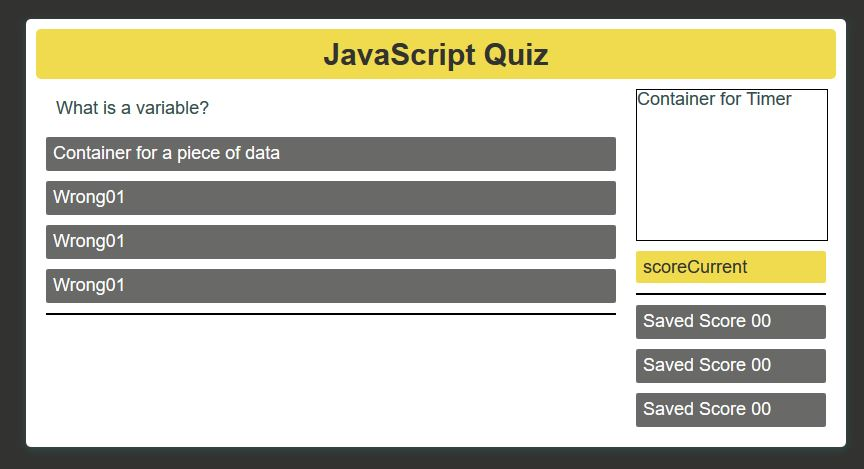
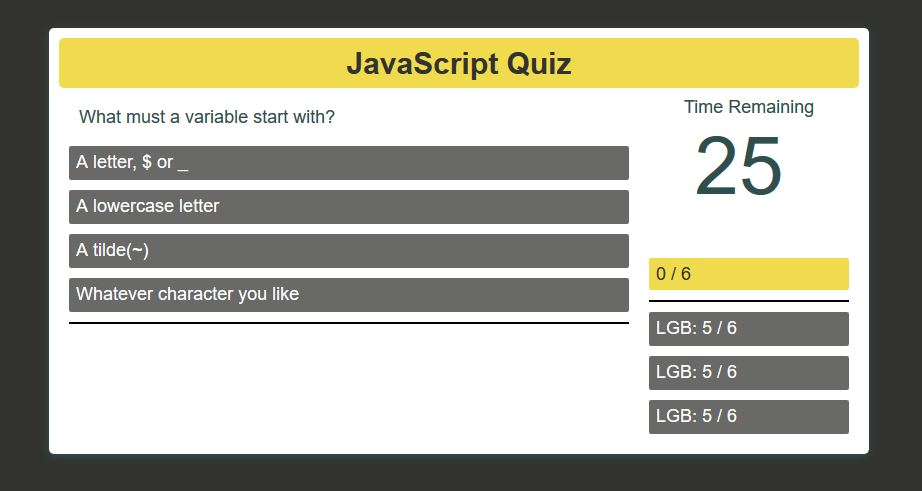
function with timer

Changed region(s): [[0.0312, 0.0299, 1.0, 0.9552], [0.75, 0.2687, 0.8438, 0.4179]]

diff --git a/assets/script.js b/assets/script.js
@@ -23,14 +23,15 @@ var lineBreak01 = $("<div>").addClass("lineBreak");
 var sideBox = $("<div>").addClass("sideBox");
 var timeBox = $("<div>").addClass("timeBox");
 var timer = $("<div>").addClass("timer"); 
+var timerVal;
 var scoreBox = $("<div>").addClass("scoreBox");
 var scoreCurrent = $("<div>").addClass("scoreCurrent");
 var scoreCurrentVal = "scoreCurrent";
 var scoreSaved00 = $("<div>").addClass("scoreSaved");
 var scoreSavedVal00 = "Saved Score 00";
-var scoreSaved01 = $("<div>").addClass("scoreSaved");
+var scoreSaved01 = $("<div>").addClass("scoreSaved01");
 var scoreSavedVal01 = "Saved Score 00";
-var scoreSaved02 = $("<div>").addClass("scoreSaved");
+var scoreSaved02 = $("<div>").addClass("scoreSaved02");
 var scoreSavedVal02 = "Saved Score 00";
 
 var quiz = {
@@ -116,19 +117,6 @@ var quiz = {
     });
 
 
-/*function loadQuestion(){
-    var = questionBank[questionCurrent];
-
-};
-
-
-var questionTextValue = questionBank.question;
-var questionResponseVal00 = questionBank.response00;
-var questionResponseVal01 = questionBank.response01;
-var questionResponseVal02 = questionBank.response02;
-var questionResponseVal03 = questionBank.response03;
-*/
-
 
 containerEl.append(containerHeader);
 containerEl.append(containerBody);
@@ -143,15 +131,17 @@ questionBoxEl.append(questionResponse03);
 questionBoxEl.append(lineBreak00);
 
 var dataIndex = 0;
-var score = 0; // current score
+var score = 0; 
+var count = 30;
+var endTime = 0;
 
 function loadQuestion(){
     if (dataIndex < 6){
     questionTextBox.text(quiz.data[dataIndex].question);
     questionResponse00.text(quiz.data[dataIndex].responses[0]).attr('id', "correct");
-    questionResponse01.text(quiz.data[dataIndex].responses[1]);
-    questionResponse03.text(quiz.data[dataIndex].responses[2]);
-    questionResponse02.text(quiz.data[dataIndex].responses[3]);
+    questionResponse01.text(quiz.data[dataIndex].responses[1]).attr('id', "incorrect");
+    questionResponse03.text(quiz.data[dataIndex].responses[2]).attr('id', "incorrect");
+    questionResponse02.text(quiz.data[dataIndex].responses[3]).attr('id', "incorrect");
     }
     else{
         questionTextBox.css({"display": "none"});
@@ -169,20 +159,34 @@ loadQuestion();
 
 
 
-var count = 30;
-var endTime = 0;
 
 
 containerBody.append(sideBox);
 sideBox.append(timeBox);
+timeBox.text("Time Remaining")
 timeBox.append(timer);
-timer.text(count);
+timer.text(timerVal);
 
+timerVal = setInterval(loadTimer,1000);
 
-function loadCounter(){
+function loadTimer(){
         if (count >= endTime){
-        timer.text(count)
+        timer.text(count);    
         count--
+        
+    }
+    if (count == endTime){
+        questionTextBox.css({"display": "none"});
+        questionResponse00.css({"display": "none"});        
+        questionResponse01.css({"display": "none"});
+        questionResponse02.css({"display": "none"});
+        questionResponse03.css({"display": "none"});
+        lineBreak00.css({"display": "none"});
+        questionBoxEl.append(resultBox);
+        
+        
+
+        
     }
 };
 
@@ -206,6 +210,8 @@ scoreSaved01.text(scoreSavedVal01);
 scoreBox.append(scoreSaved02);
 scoreSaved02.text(scoreSavedVal02);
 
+
+
 $(".questionResponse").on("click", function (){
 
     dataIndex++;
@@ -213,11 +219,27 @@ $(".questionResponse").on("click", function (){
 
 });
 
+
+$("#incorrect").on("click", function (){
+
+    if (count >= 15){
+       count = 10; 
+    } else{
+        count = 5
+    }
+    
+    $(".timer").style.color = "#B91428";
+
+});
+
 $("#correct").on("click", function (){
+
+    
     score++;
     console.log(score);
     scoreCurrent.text(score +" / 6");
     resultBox.text(score +" / 6")
+    count = 30;
     var p = $("<p>")
     if (score > 3){
         resultBox.append(p);
@@ -226,6 +248,7 @@ $("#correct").on("click", function (){
         saveBtn.text("Save your score")
 
     } else{
+
         resultBox.append(p);
         p.text("Better Luck Next Time")
         resultBox.append(retryBtn);
@@ -237,15 +260,22 @@ $("#correct").on("click", function (){
     saveBtn.on("click", function (){
         userName = prompt("What are your initials?")
         localStorage.setItem("Saved_Score", (userName + ": " + score + " / 6"));
-        window.location.reload();
+        $(".scoreSaved").text(userName + ": " + score + " / 6");
+        count = 0;
+        scoreSavedVal02 = (localStorage.getItem("Saved_Score03"));
+        localStorage.setItem("Saved_Score04", (scoreSavedVal02));
+        scoreSavedVal01 = (localStorage.getItem("Saved_Score02"));
+        localStorage.setItem("Saved_Score03", (scoreSavedVal01));
+
+
+
+        
     });
 
-    
-    
-    
-
-
 });
+
+
+
 
 resultBox.text(score +" / 6")
 

diff --git a/assets/style.css b/assets/style.css
@@ -119,11 +119,10 @@ body {
 }
 .timeBox {
   margin: 10px;
-  border-style: solid;
-  border-width: 1px;
-  border-color: black;
+
   height: 150px;
   width: 100%;
+  text-align: center;
 }
 .scoreBox {
   margin: 10px;
@@ -174,7 +173,33 @@ body {
   height: 20px;
   color: white;
   text-align: left;
+  padding: 7px;
+  font-size: 18px;
+  margin-bottom: 10px;
+  border-radius: 2px;
 
+}
+.scoreSaved01 {
+  
+  background-color: #323330bb;
+  margin-top: 10px;
+  height: 20px;
+  color: white;
+  text-align: left;
+  padding: 7px;
+  font-size: 18px;
+  margin-bottom: 10px;
+  border-radius: 2px;
+
+}
+
+.scoreSaved02 {
+  
+  background-color: #323330bb;
+  margin-top: 10px;
+  height: 20px;
+  color: white;
+  text-align: left;
   padding: 7px;
   font-size: 18px;
   margin-bottom: 10px;
@@ -183,42 +208,13 @@ body {
 }
 
 
+
 .timer{
   float: right;
   height : 100px;
   width : 200px;
   text-align: center;
   padding: 10px;
-  font-size: 50px;
-}
-.counter{
-  font-size: 3em;
-}
-.btimeGauge{
-  width : 150px;
-  height : 10px;
-  border-radius: 10px;
-  background-color: lightgray;
-  margin-left : 25px;
-}
-.timeGauge{
-  height : 10px;
-  border-radius: 5px;
-  background-color: lightskyblue;
-  margin-top : -10px;
-  margin-left : 25px;
-}
-.progress{
+  font-size: 80px;
 
-  padding:5px;
-  text-align: left;
-}
-.prog{
-  width : 25px;
-  height : 25px;
-  border: 1px solid #000;
-  display: inline-block;
-  border-radius: 40%;
-  margin-left : 5px;
-  margin-right : 5px;
 }
